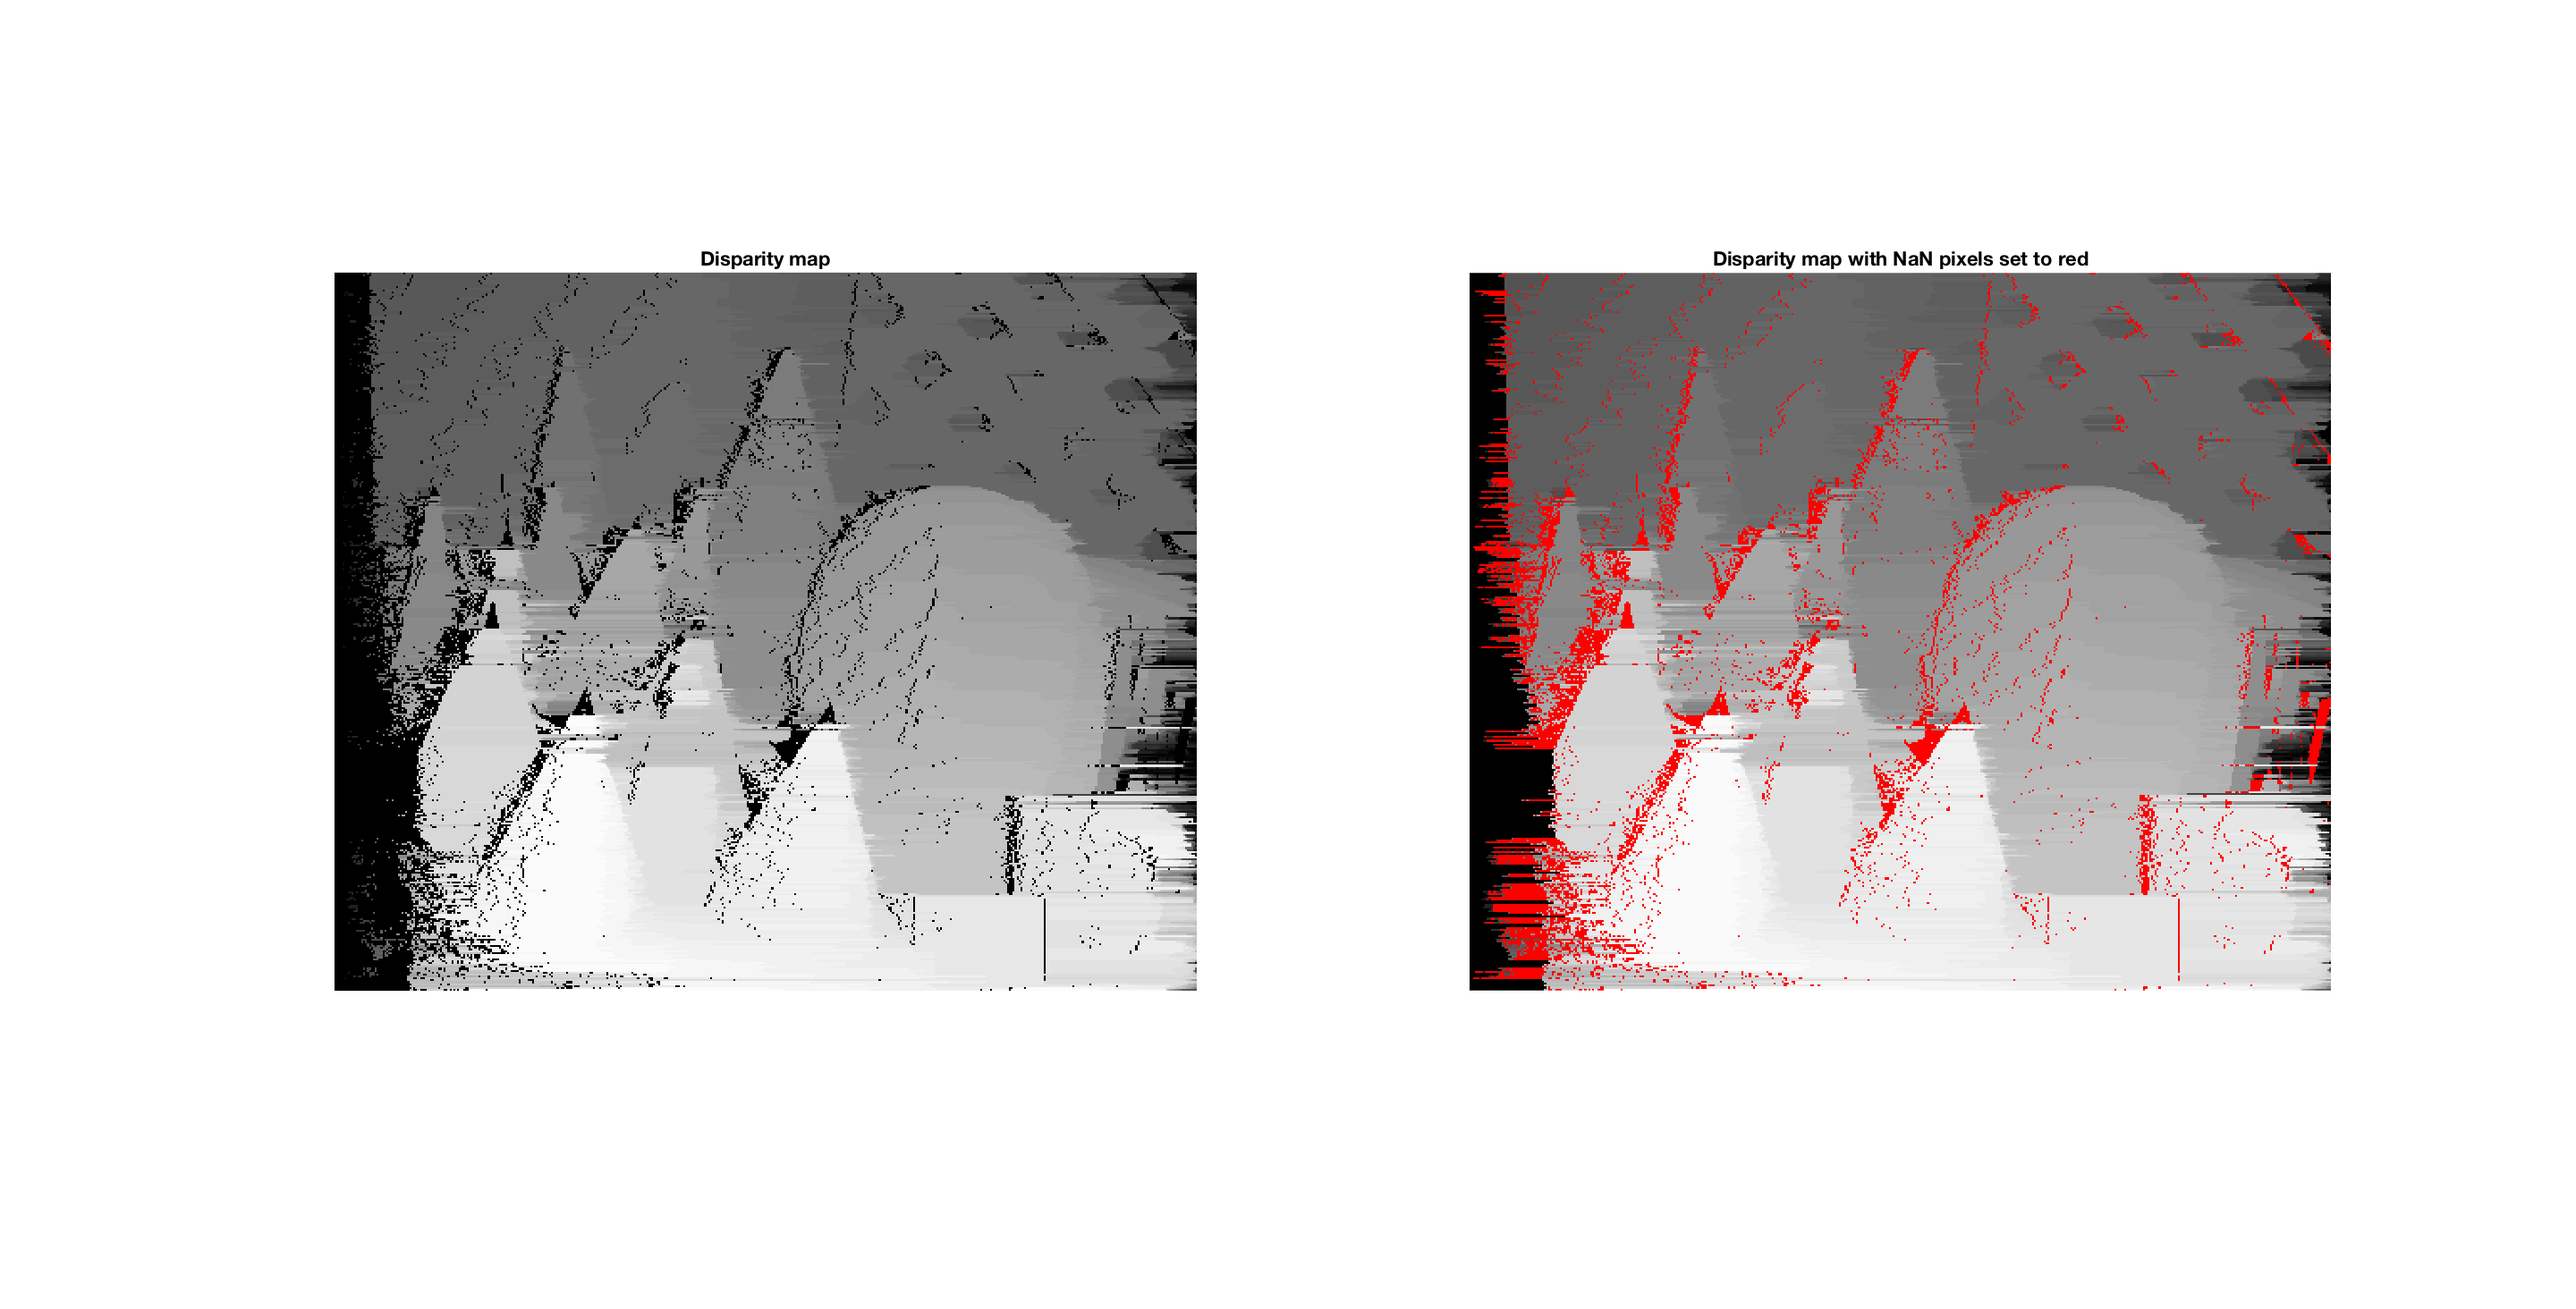
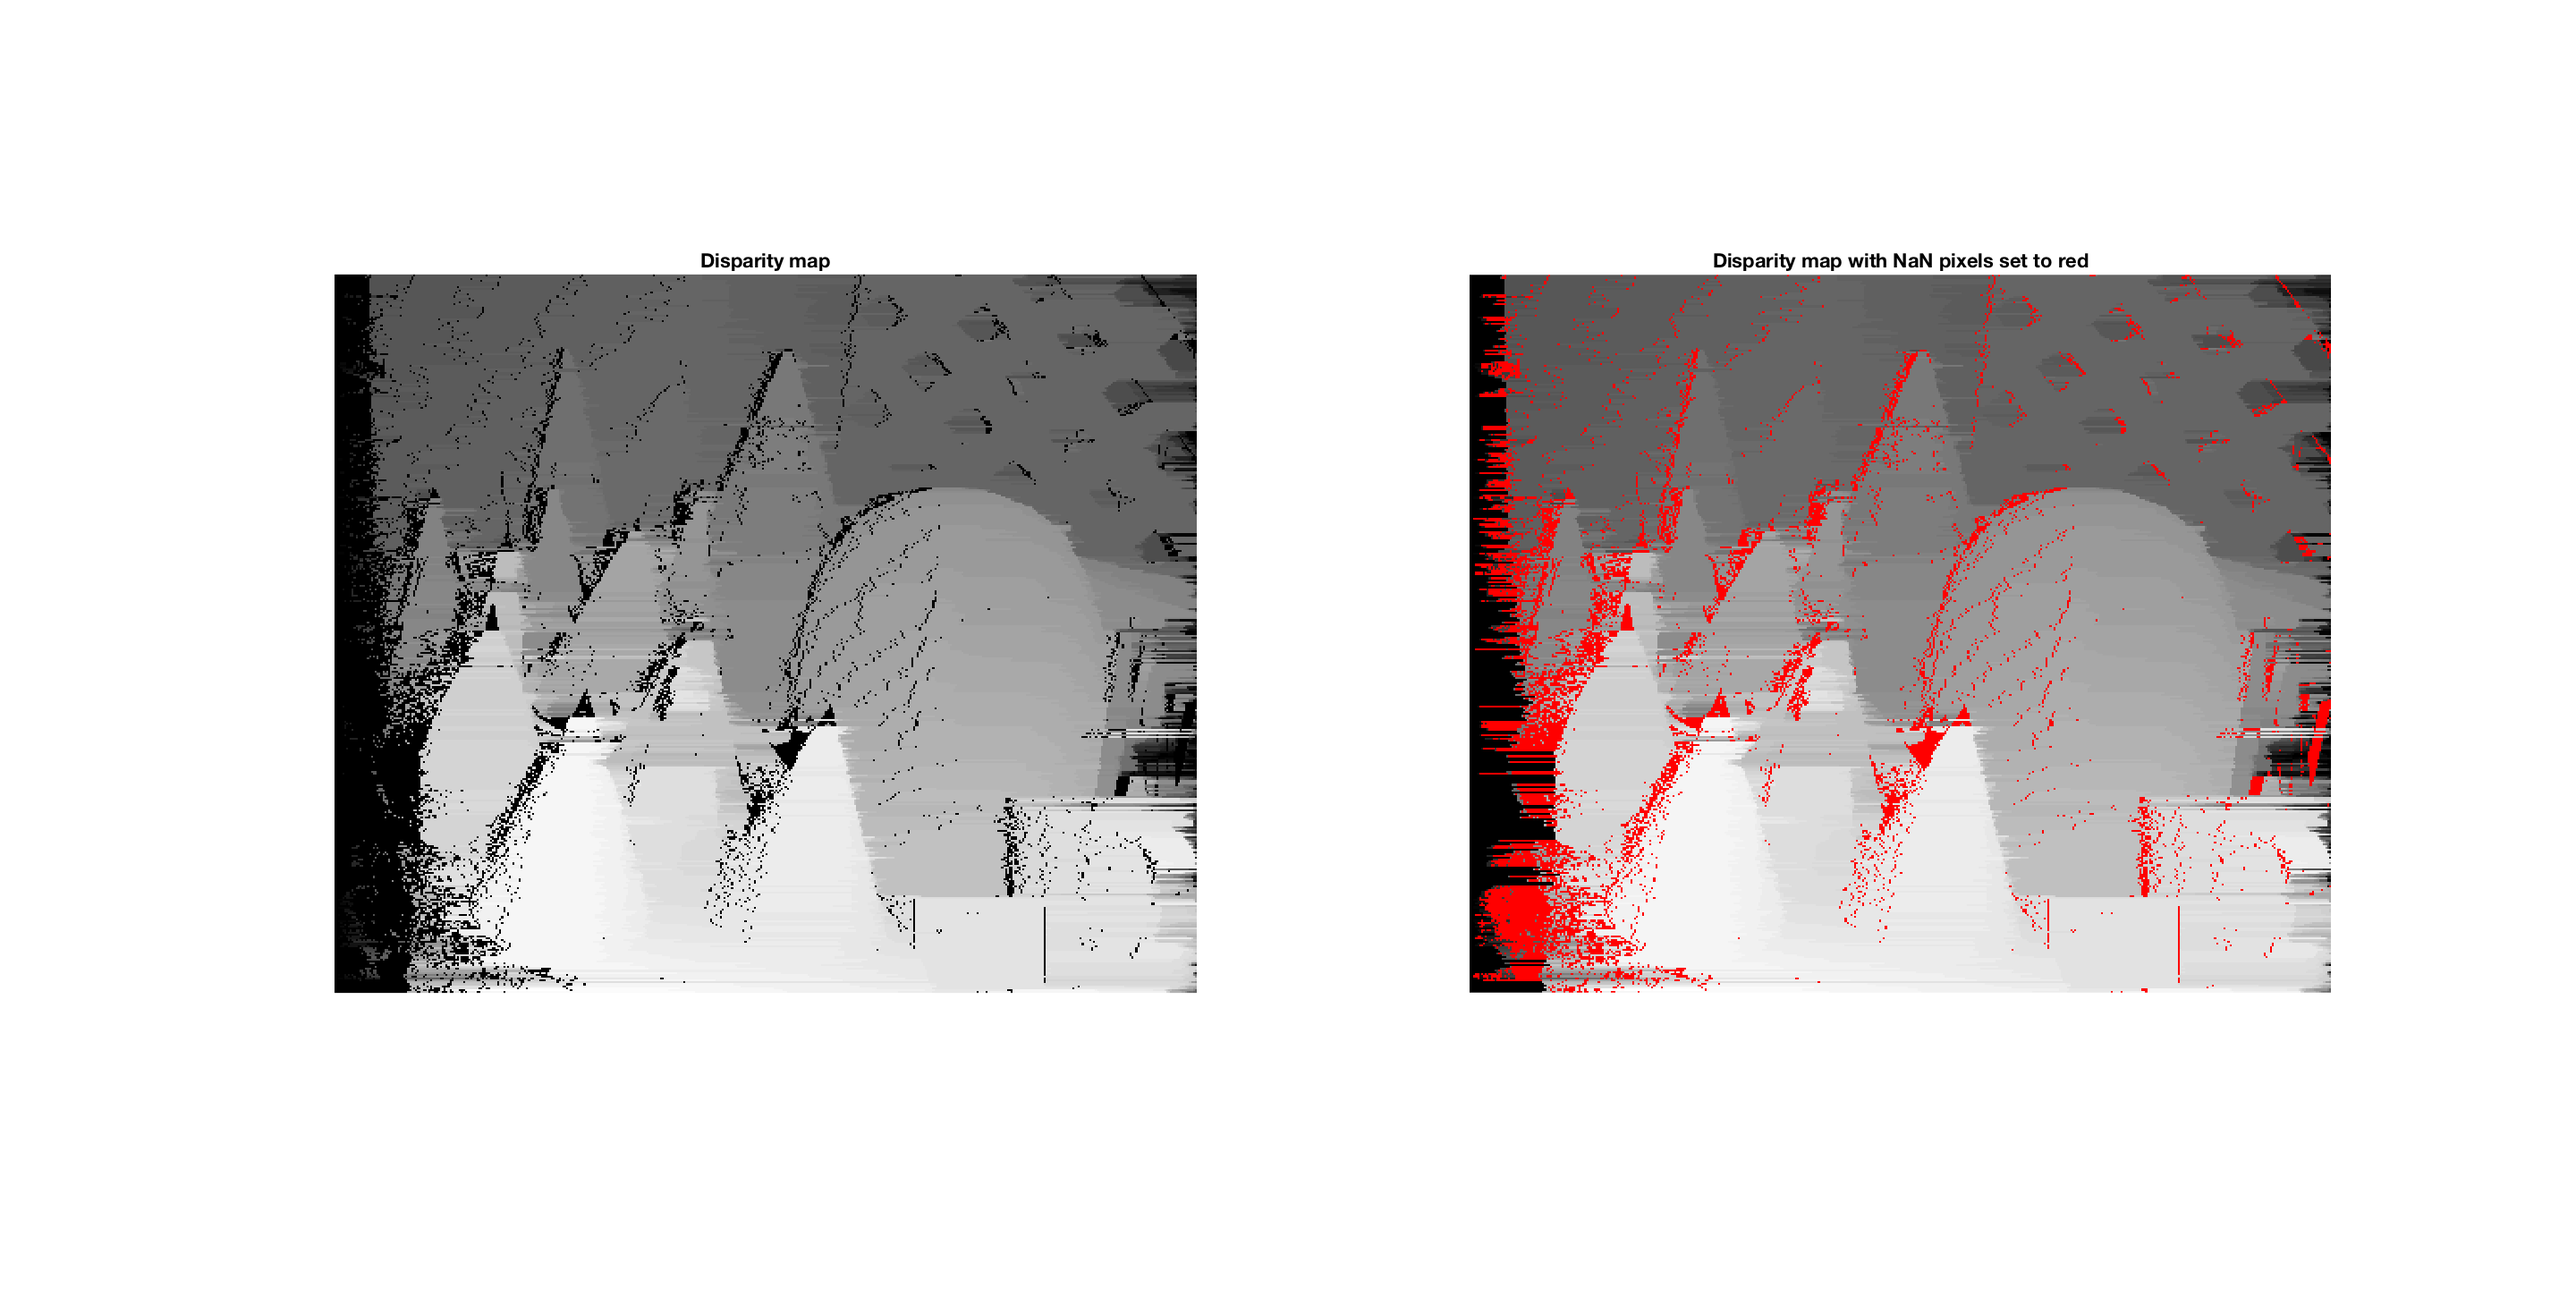
finished

diff --git a/assignment-4/stereoDP.m b/assignment-4/stereoDP.m
@@ -178,12 +178,11 @@ function [cost] = costMatrixNCC(left, right, wsize, row)
             
             meanLeft = mean(lref(:));
             meanRight = mean(rref(:));
-            N = numel(lref)*numel(rref);
             
             temp = (lref - meanLeft).*(rref - meanRight); 
             varleft = ((lref - meanLeft).^2); 
             varright =((rref - meanRight).^2);
-            ncc = sum(temp(:))/(N*sqrt(sum(varleft(:)) * sum(varright(:))));
+            ncc = sum(temp(:))/(sqrt(sum(varleft(:)) * sum(varright(:))));
             
             cost(i, j) = ncc;
         end

diff --git a/assignment-4/main.m b/assignment-4/main.m
@@ -23,7 +23,7 @@ right = imreadgray('stereo-pairs/cones/imR.png');
 maxDisp = 64;
 occ = 0.01;
 
-wsize = 3;
+wsize = 5;
 method = 'NCC'; % Possible methods are : SD, SSD and NCC
 d = stereoDP(left, right, maxDisp, occ, method, wsize);
 mind = min(d(:));
